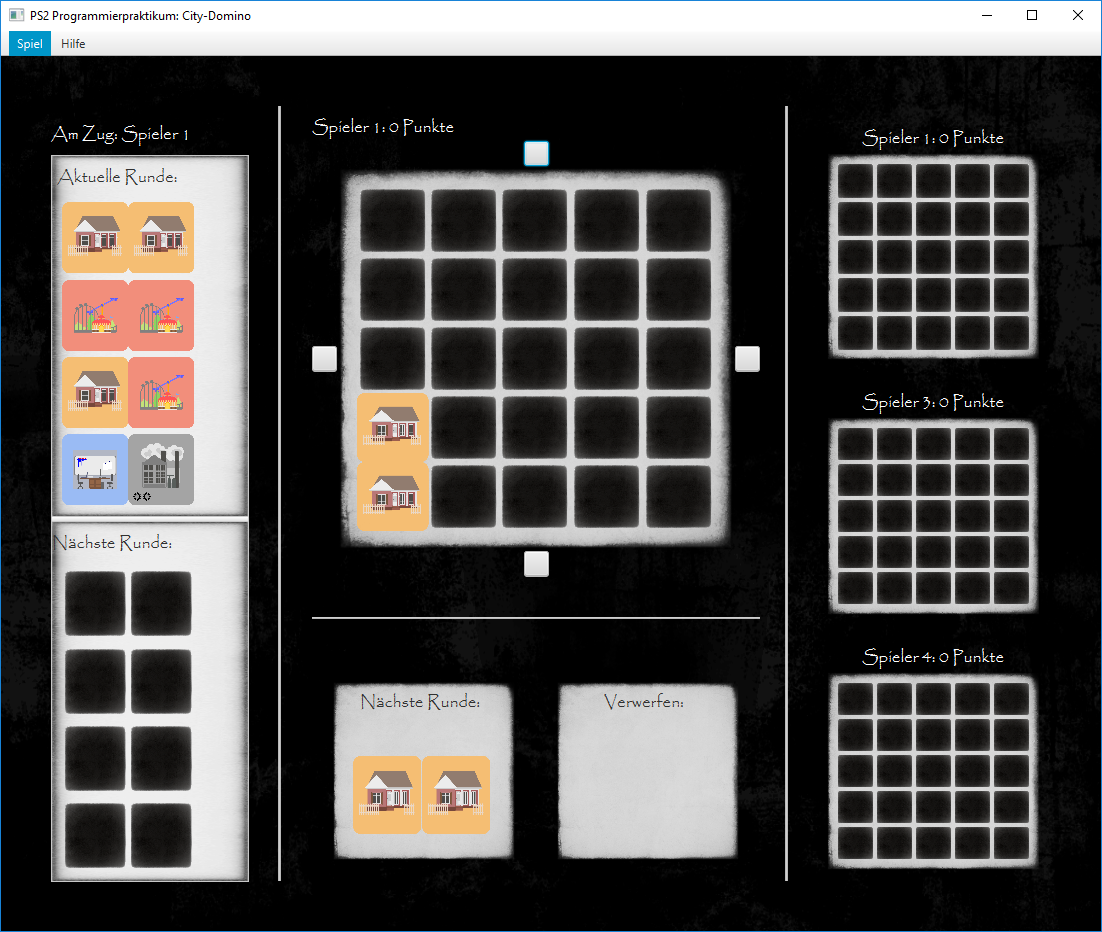
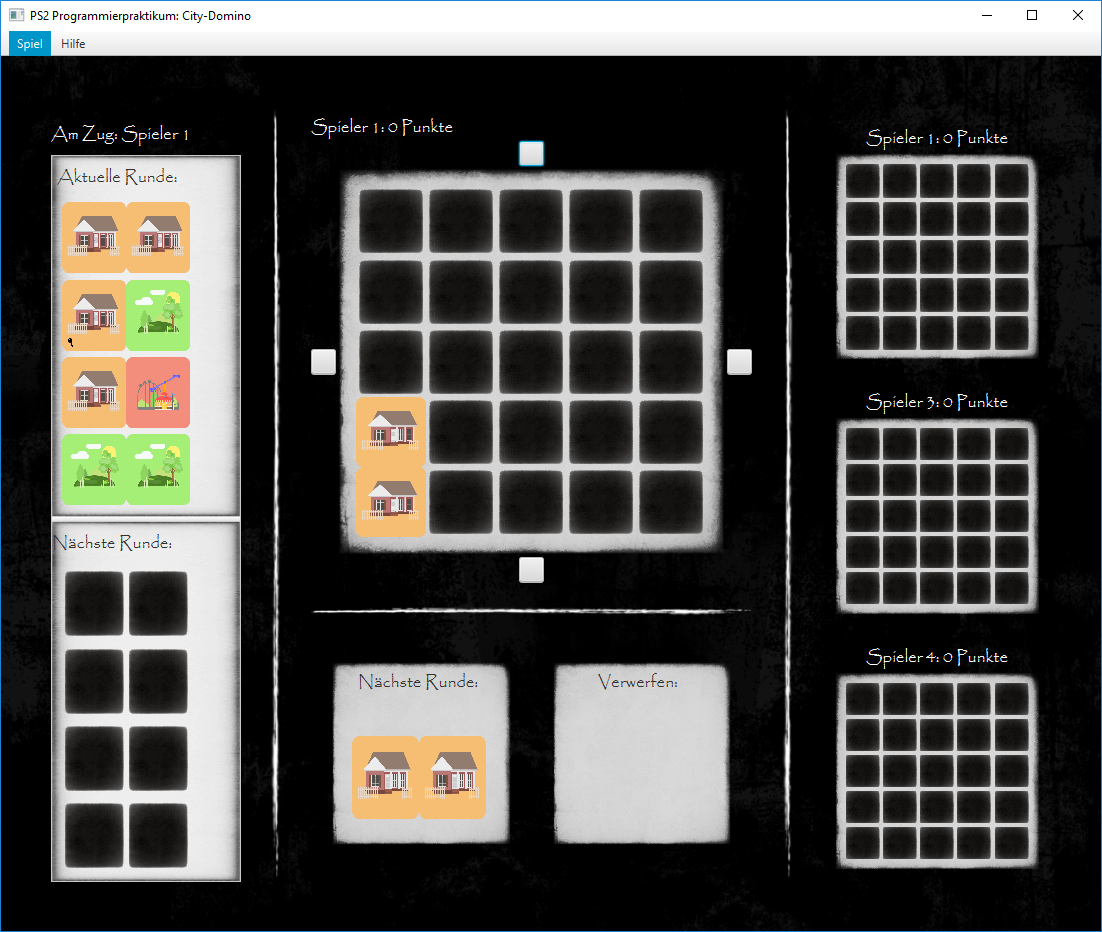
Screenshot aktualisiert.

Changed region(s): [[0.0309, 0.1245, 0.9256, 0.9646], [0.0926, 0.6223, 0.1234, 0.9335]]

diff --git a/src/gui/FXMLDocumentController.java b/src/gui/FXMLDocumentController.java
@@ -29,6 +29,8 @@ public class FXMLDocumentController implements Initializable {
     public static final Image BACKGROUND_TEXTURE = new Image("gui/textures/BackgroundV3.png");
     public static final Image BOARD_BACKGROUND_TEXTURE = new Image("gui/textures/SelectedBoxV5Alpha.png");
     public static final Image ROTBOX_TEXTURE = new Image("gui/textures/SelectBoxV4Alpha.png");
+    public static final Image SEPERATOR_TEXTURE = new Image("gui/textures/SeperatorV2Alpha.png");
+    public static final Image SEPERATOR_TEXTURE_ROTATED = new Image("gui/textures/SeperatorV2AlphaRotated.png");
 
 
     @FXML
@@ -118,6 +120,15 @@ public class FXMLDocumentController implements Initializable {
     @FXML
     private GridPane grdPnCurrentBankTexture;
 
+    @FXML
+    private GridPane grdPnSeperator1Texture;
+
+    @FXML
+    private GridPane grdPnSeperator2Texture;
+
+    @FXML
+    private GridPane grdPnSeperator3Texture;
+
 
 
     private GUI2Game game;
@@ -149,6 +160,10 @@ public class FXMLDocumentController implements Initializable {
 
         setAPnWithImageAsBackground(this.grdPnRotBoxTexture, BOARD_BACKGROUND_TEXTURE);
         setAPnWithImageAsBackground(this.grdPnDisposeTexture, BOARD_BACKGROUND_TEXTURE);
+
+        setAPnWithImageAsBackground(this.grdPnSeperator1Texture, SEPERATOR_TEXTURE);
+        setAPnWithImageAsBackground(this.grdPnSeperator2Texture, SEPERATOR_TEXTURE);
+        setAPnWithImageAsBackground(this.grdPnSeperator3Texture, SEPERATOR_TEXTURE_ROTATED);
 
         setAPnWithImageAsBackground(grdPnOverallBackgroundTexture, BACKGROUND_TEXTURE);
     }
